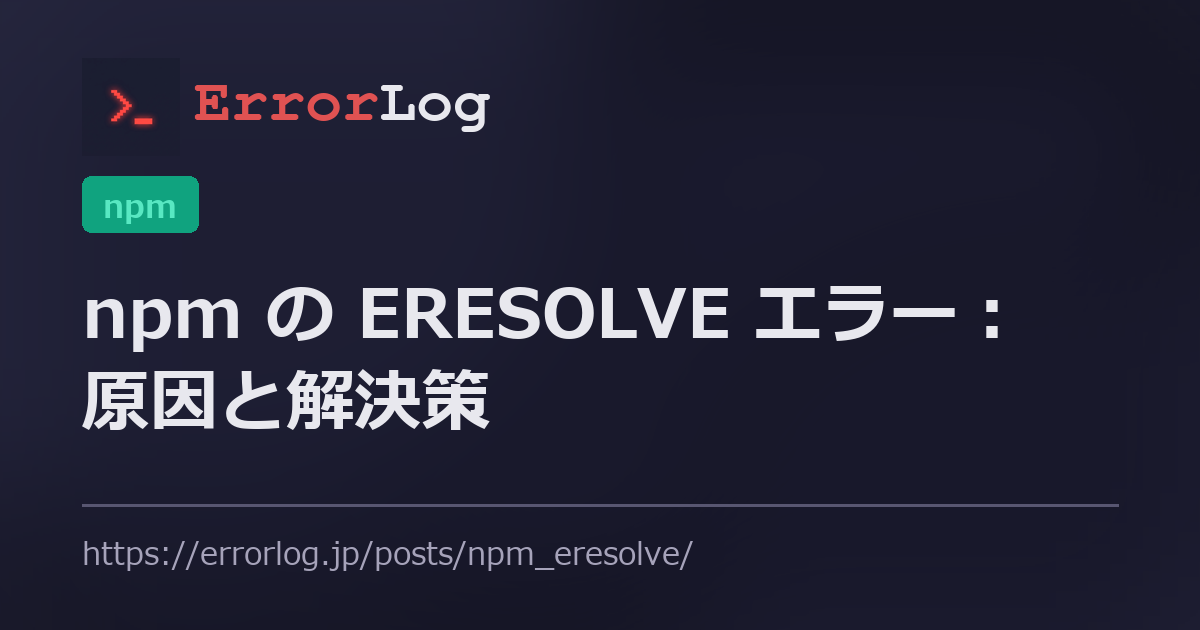
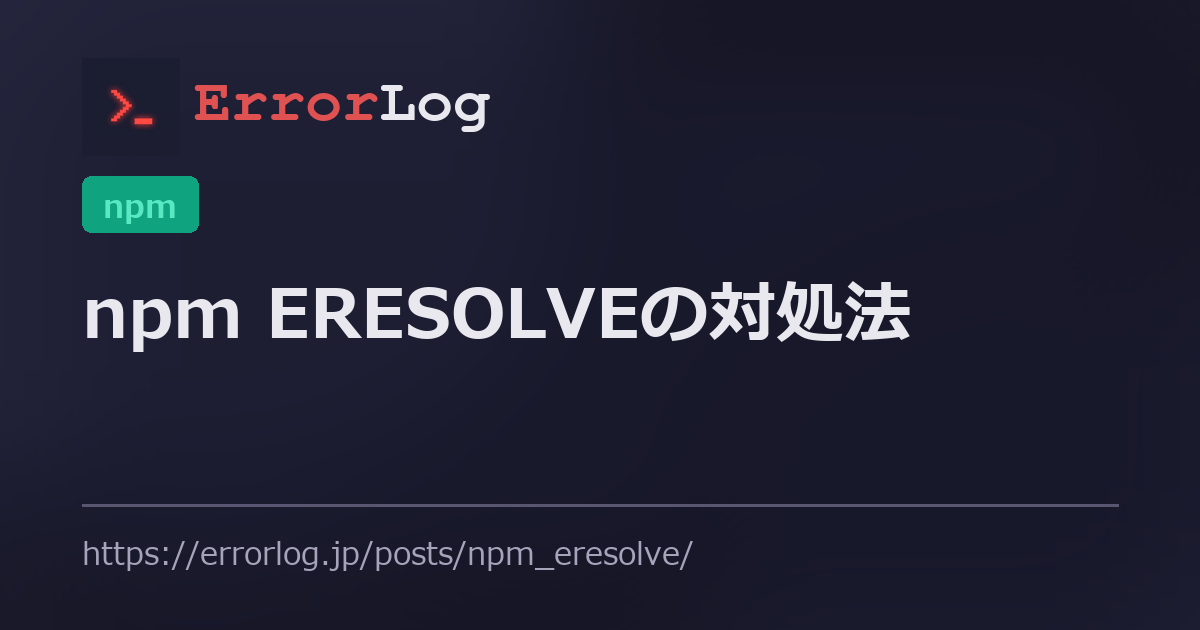
rewrite: npm_eresolve 記事を新しい質の型で書き直し

Changed region(s): [[0.2158, 0.4524, 0.8325, 0.5429], [0.0617, 0.573, 0.4008, 0.6937]]

diff --git a/content/posts/npm_eresolve.md b/content/posts/npm_eresolve.md
@@ -1,114 +1,138 @@
 ---
-title: "npm の ERESOLVE エラー：原因と解決策"
-date: 2026-08-07
-description: "ERESOLVE は依存関係の木を組み立てられなかったという意味なので、出力の While resolving・Found・Could not resolve dependency の3行を突き合わせれば、どのパッケージのどの要求が衝突しているかをその場で特定できます。"
-tags: ["npm"]
+title: "npm ERESOLVEの対処法"
+date: 2026-08-07T09:00:00+09:00
+slug: npm_eresolve
+tags: ["npm", "Node.js", "JavaScript"]
+description: "npm installのERESOLVEをFoundとpeerの要求から切り分ける。互換性のある版への調整とlegacy-peer-deps・forceの違いを説明。"
+draft: false
 images: ["og/posts/npm_eresolve.png"]
 errorCode: "ERESOLVE"
-lastmod: 2026-08-07
+urgency: "medium"
 service: "npm"
 error_type: "ERESOLVE"
-components: ["Arborist", "npm CLI"]
-related_services: ["Node.js", "GitHub Actions"]
+components: ["npm", "peerDependencies", "package.json", "package-lock.json"]
+related_services: []
 trend_incident: false
+publish_slug: "npm_eresolve"
+publish_note: "新規作成。npm公式文書・現行実装、GitHub実例を照合"
+publish_zenn: true
 ---
 
-## 結論
+## 冒頭まとめ
 
-`ERESOLVE unable to resolve dependency tree` は、npm が依存関係の木を組み立てられなかったという意味です。実装では、peer 依存の衝突を解決できなかった時点で `unable to resolve dependency tree` という文言の[エラー](/glossary/エラー/)が投げられます。
+`npm install` が `ERESOLVE` で止まったら、まずログの `Found:` と、その下の `peer` が要求する版を比べる。パッケージ本体と、それを利用するプラグインなどの要求が合わず、npmが依存関係を配置できない場合に起きる。
 
-読むべき場所は3か所です。`While resolving:` は何を導入しようとしていたか、`Found:` は木に既にある物、`Could not resolve dependency:` は満たせなかった要求です。この3行を突き合わせれば、どの[バージョン](/glossary/バージョン/)とどの要求がぶつかっているかがその場で分かります。
-
-`--force` や `--legacy-peer-deps` を付ければ先へ進めますが、これは衝突を解決するのではなく、誤った可能性のある解決を受け入れるという操作です。出力の最後の行にもそう書かれています。まず衝突の中身を読んでください。
-
-## 最初に確認すること
-
-画面に出る説明は深さ4段までに省略されています。全文は[キャッシュ](/glossary/キャッシュ/)の置き場に `eresolve-report.txt` として書き出されており、こちらには省略のない説明と機械可読の内容が入っています。
-
-```bash
-cat "$(npm config get cache)/eresolve-report.txt"
+```text
+npm error code ERESOLVE
+npm error ERESOLVE unable to resolve dependency tree
 ```
 
-深い階層で起きている衝突は、画面の出力だけでは追い切れません。相手が分からないときは、まずこの[ファイル](/glossary/ファイル/)を開いてください。
+`could not resolve` と表示される場合もある。古いnpmでは接頭辞が `npm ERR!` になる。文言の違いだけで対処を変える必要はない。
 
-次に、npm 自身の[バージョン](/glossary/バージョン/)を確認します。peer 依存を厳密に扱う挙動は npm 7 からで、6 以前とは結果が変わります。
+基本の対処は、競合する両側を互換性のある版に揃えること。`--legacy-peer-deps` はpeerの要求を無視する回避策であり、`--force` はさらに広い保護を外す。インストール完了だけでは動作確認にならない。
 
-```bash
-npm --version
+## Foundとpeerの要求を読み比べる
+
+peer dependencyは、プラグインなどが利用側に求めるパッケージと版の条件を表す。たとえば次は説明用の例である。
+
+```text
+Found: host-lib@2.0.0
+Could not resolve dependency:
+peer host-lib@"^1.0.0" from plugin-lib@1.0.0
 ```
 
-## 原因別の確認方法と解決策
+`host-lib@2.0.0` は `^1.0.0` を満たさない。`plugin-lib`を2系のhostに対応した版へ変えるか、host側を1系へ揃える必要がある。
 
-### 原因1：直接指定した2つのパッケージが、同じ物に別の版を求めている
+| 表示 | 読み取る内容 |
+|---|---|
+| `While resolving:` | 解決中のプロジェクトやパッケージ。必ずしも競合元そのものではない |
+| `Found:` | 解決中のツリーで使おうとしている版。既にインストール済みとは限らない |
+| `peer ... from ...` | 要求されるパッケージ・範囲と、その要求を出したパッケージ |
+| `Conflicting peer dependency:` | 競合するpeerを満たす候補。これを単独で入れれば直るとは限らない |
 
-最も多い形です。`Found:` に出ている版と、`Could not resolve dependency:` の peer の範囲を見比べてください。両方とも `from the root project` と書かれていれば、自分の[設定ファイル](/glossary/設定ファイル/)で指定した2つがぶつかっています。
+ログにレポートのパスが表示されたら、そのファイルも読む。保存先はnpmの版や設定で変わるため、`~/.npm/eresolve-report.txt`に固定しない。
 
-対処は指定の見直しです。どちらかを、相手の peer の範囲に収まる版へ揃えます。
+[npm/cli Issue #6476](https://github.com/npm/cli/issues/6476)には、npm 9.5.1・Node.js 18.16.0での実例がある。rootがcommonを1.0.6に固定する一方、解決されたdecoratorsがcommonの1.0.8以上を要求していた。投稿者がcoreを1.0.6へ固定していても、そのpeer範囲から別パッケージの1.0.8が選ばれていた。これは過去の報告であり、現在のnpm全般に同じ不具合があると示すものではない。
 
-```bash
-npm view some-lib@2.0.0 peerDependencies
-```
-
-### 原因2：上流のパッケージが古い範囲のまま更新されていない
-
-`Could not resolve dependency:` の peer が、自分では指定していない[パッケージ](/glossary/パッケージ/)から出ている場合です。更新版が出ていれば、それで解消します。
-
-```bash
-npm outdated
-```
-
-更新版が無く、実際には動くと確認できている場合に限り、根本の[設定ファイル](/glossary/設定ファイル/)で置き換えを指定できます。公式ドキュメントは、この指定が根本の[ファイル](/glossary/ファイル/)でのみ有効で、導入済みの[パッケージ](/glossary/パッケージ/)側の指定は解決に使われないと明記しています。
-
-```json
-{
-  "overrides": {
-    "some-lib": {
-      "react": "$react"
-    }
-  }
-}
-```
-
-置き換えは、上流が想定していない組み合わせを強制する操作です。動作確認をしてから使ってください。
-
-### 原因3：CI で厳密な設定が有効になっている
-
-手元では通るのに CI だけ失敗する場合です。`strict-peer-deps` は既定では無効で、公式の説明によれば、深い階層の peer 衝突は最も近い非 peer の指定で解決され、警告が出るだけで済みます。この[設定](/glossary/設定/)を有効にすると、その警告が失敗として扱われます。
+## npmの版と設定を確認する
 
 ```bash
+node -v
+npm -v
 npm config get strict-peer-deps
+npm config get legacy-peer-deps
+npm config get force
 ```
 
-`true` であれば、警告のまま進めてよいかを判断したうえで外してください。出力の対処案に `--no-strict-peer-deps` が含まれている場合は、この[設定](/glossary/設定/)が有効だという印です。
+npm 7からpeer dependencyが既定で自動インストールされるようになった。npmを変えたことで、以前は通った組合せが解決に失敗することがある。Node.jsの版だけで判断せず、実際のnpmの版を確認する。
 
-### 原因4：古い記録が残っている
+ただし「npm 7以降ではすべてのpeer競合で停止する」という説明は正確ではない。既定では、深い依存関係の競合を非peerの要求から解決し、警告で進む場合がある。`strict-peer-deps=true`は、そうした推測で進められる競合も失敗にする設定である。
 
-版を直したのに同じ衝突が出る場合です。`package-lock.json` に前回の解決結果が残っています。
+現行の[npm CLI内のplace-dep.js](https://github.com/npm/cli/blob/latest/workspaces/arborist/lib/place-dep.js)でも、配置できないときにforce・root/workspace由来か・strict設定を確認し、エラーと警告を分けている。アーカイブ済みのnpm/arboristの行番号を現行実装へそのまま当てはめない。
+
+## 互換性のあるパッケージの版に揃える
+
+ログの `peer ... from ...` に出た要求元と、要求されている側を調べる。以下の名前と版は実際の対象へ置き換える。
 
 ```bash
-rm -rf node_modules package-lock.json
-npm install
+npm view plugin-lib@1.0.0 peerDependencies
+npm view plugin-lib versions
+npm ls host-lib plugin-lib
+npm explain host-lib
 ```
 
-記録を消すと、他の依存も新しい版に動く可能性があります。共同で開発している場合は、生成し直した記録の差分を確認してから共有してください。
+`npm view`は通常レジストリへ問い合わせる。`npm ls`と`npm explain`はインストール済みツリーの調査に使うため、初回インストール前や途中失敗後には十分な情報がないこともある。`npm ls`は不整合を表示して終了コードが非0になる場合がある。
 
-## 近いエラーとの違い
+要求元の新版が現在のhostに対応しているなら、要求元を更新する。hostを変更するなら、ほかのプラグインのpeer範囲も満たす版を選ぶ。変更後は `npm install` でlockfileを更新し、差分・ビルド・テストを確認する。devDependenciesならインストール時の `-D` も維持する。
 
-`npm warn ERESOLVE overriding peer dependency` は警告で、導入自体は成功しています。npm が近い指定を使って自動で解決した、という[通知](/glossary/通知/)です。同じ語が出ますが、失敗ではありません。
+lockfile削除やキャッシュ削除から始めても、互いに交わらない要求範囲は直らない。lockfileを消すと関係のない依存まで更新される可能性がある。
 
-`ETARGET` は、要求された版がそもそも存在しない場合です。公式の説明文にも、依存のどれかが存在しない版を求めていると書かれています。衝突ではなく不在なので、`--legacy-peer-deps` では解消しません。
+## legacy-peer-depsとforceを区別する
 
-`E404` は、その名前の[パッケージ](/glossary/パッケージ/)自体が見つからない場合です。名前の誤りか、私用の置き場への[認証](/glossary/認証/)が通っていない場合に出ます。
+| 操作 | 挙動 | 注意点 |
+|---|---|---|
+| `npm install --legacy-peer-deps` | ツリー構築時にpeerの要求を無視する | 要求の整合性が保証されない |
+| `npm install --force` | peer競合の許容を含む、複数の保護を外す | peer以外にも影響する |
+| `npm install --omit=peer` | peerをディスクへ展開しない | peerの要求を考慮したツリー解決は行う |
 
-`--legacy-peer-deps` は peer 依存を完全に無視する[設定](/glossary/設定/)です。公式ドキュメントは、この使用を推奨しないと明記しています。他の[パッケージ](/glossary/パッケージ/)が前提としている取り決めを守らなくなるためです。一時的に前へ進める手段として使い、恒久的な[設定](/glossary/設定/)にはしないでください。
+一時的にpeerの扱いを回避する必要がある場合は、影響を理解したうえで使う。
 
-## 参考資料
+```bash
+npm install --legacy-peer-deps
+```
 
-- [npm config（legacy-peer-deps、strict-peer-deps）](https://docs.npmjs.com/cli/latest/using-npm/config)
-- [package.json（overrides）](https://docs.npmjs.com/cli/latest/configuring-npm/package-json#overrides)
-- [ERESOLVE の説明生成（explain-eresolve.js）](https://github.com/npm/cli/blob/latest/lib/utils/explain-eresolve.js)
-- [依存関係の組み立て（build-ideal-tree.js）](https://github.com/npm/cli/blob/latest/workspaces/arborist/lib/arborist/build-ideal-tree.js)
+[npm公式の設定説明](https://docs.npmjs.com/cli/v11/using-npm/config#legacy-peer-deps)は、この設定を推奨していない。peerを無視して入った組合せは、実際に利用する機能で検証する。
 
----
+`.npmrc`に常設すると以後の操作にも効く。共有する場合は、その理由と解除する条件をプロジェクトで管理する。`--force`も同等の代替として気軽に追加しない。
+
+## overridesとCIで注意する点
+
+`overrides`は依存ツリーのパッケージを指定した版などへ置き換える仕組みであり、置き換えた先の互換性を証明するものではない。webpack 3を要求するプラグインへwebpack 4を指定しても、そのプラグインが4に対応するようにはならない。
+
+[npmのpackage.json仕様](https://docs.npmjs.com/cli/v11/configuring-npm/package-json#overrides)には、直接依存を上書きする場合は依存指定とoverrideの指定を一致させる制約もある。違う指定を置くと `EOVERRIDE` の原因になる。rootのoverridesで何を置き換えるのか確認してから使う。
+
+`--legacy-peer-deps`でlockfileを作った場合、CIの `npm ci` にも同じ設定が必要になる。[npm ciの公式説明](https://docs.npmjs.com/cli/v11/commands/npm-ci)がこの条件を案内している。
+
+```bash
+npm ci --legacy-peer-deps
+```
+
+これは回避策を採用したプロジェクト向けの例である。CIだけ通すために追加する前に、開発環境で使った設定とlockfileを確認する。`npm ci`は既存のnode_modulesを削除してからインストールするため、調査だけの目的では実行しない。
+
+## 補足：似ているが別のエラー
+
+`npm warn ERESOLVE overriding peer dependency`は、競合を警告として扱って解決を続けた表示である。その行だけではコマンド全体の成功・失敗を判断できない。最後の終了結果も確認する。
+
+`EBADENGINE`はNode.jsやnpmの版とengines条件の不一致、`EBADPLATFORM`はOS・CPUなどの条件の不一致を示す。peerの要求を無視するフラグで一律に直す問題ではない。
+
+`EOVERRIDE`はoverridesの指定の問題、`ETARGET`は要求を満たす公開版が見つからない場合などに出る。`Found`に正常な版が表示されない場合は、公開版や取得条件の確認も必要になる。
+
+Yarnやpnpmへ変更する場合も、npmの設定名や既定動作をそのまま当てはめない。パッケージマネージャーの変更は互換性のある版を選ぶ作業の代わりにはならない。
+
+## 解決手順のまとめ
+
+`Found:`の版と、`peer ... from ...`の要求範囲を比べ、要求元と要求先を互換性のある版に揃える。npmの版とstrict設定も確認する。回避が必要な場合はlegacy-peer-depsとforceの違いを理解し、lockfile作成時とCIの設定を揃えて、ビルド・テストで確認する。
+
+本記事のコマンドは調査・対処の例であり、外部パッケージを使ったインストール結果は未検証です。公式仕様・現行ソース・過去のGitHub報告を2026年10月9日に確認しました。
 
 *免責事項：本記事の内容は、執筆時点の公開情報をもとに作成したものです。[ソフトウェア](/glossary/ソフトウェア/)の仕様は予告なく変更されることがあります。最新の情報は各[ツール](/glossary/ツール/)の公式サポートページをご確認ください。本記事の情報を利用した結果生じたいかなる損害についても、著者および運営者は責任を負いかねます。*
